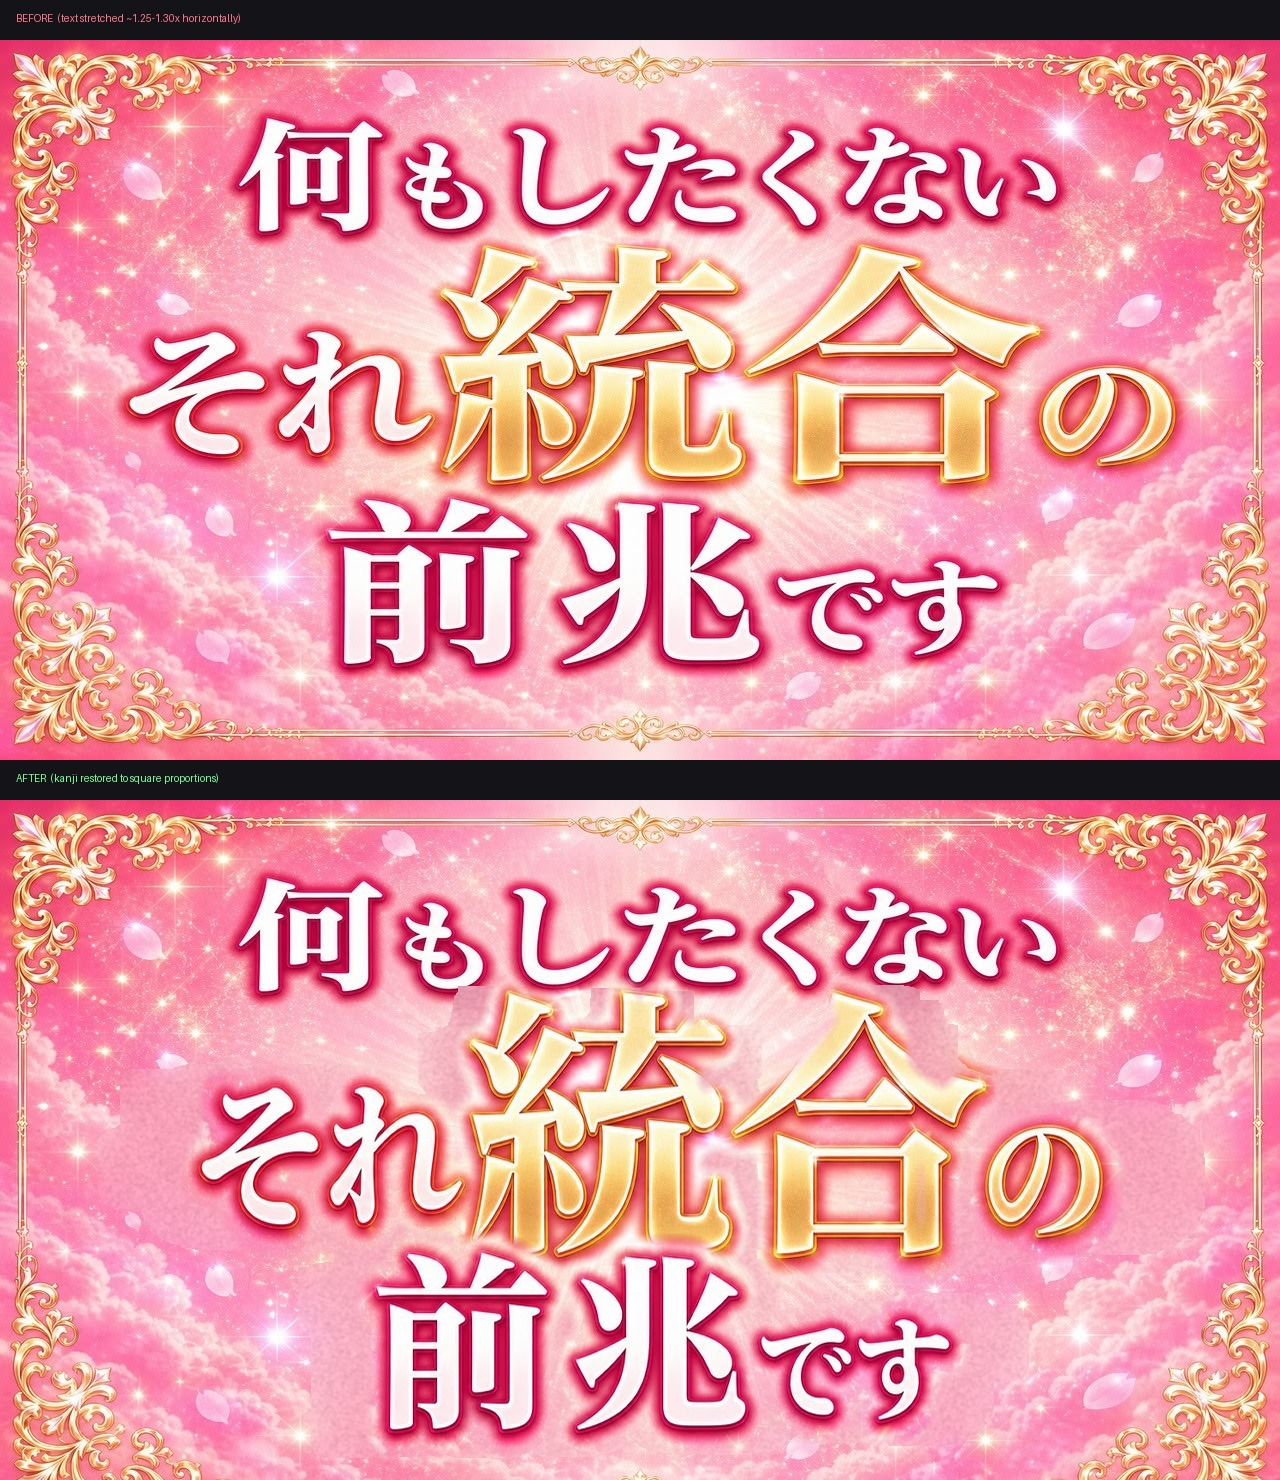
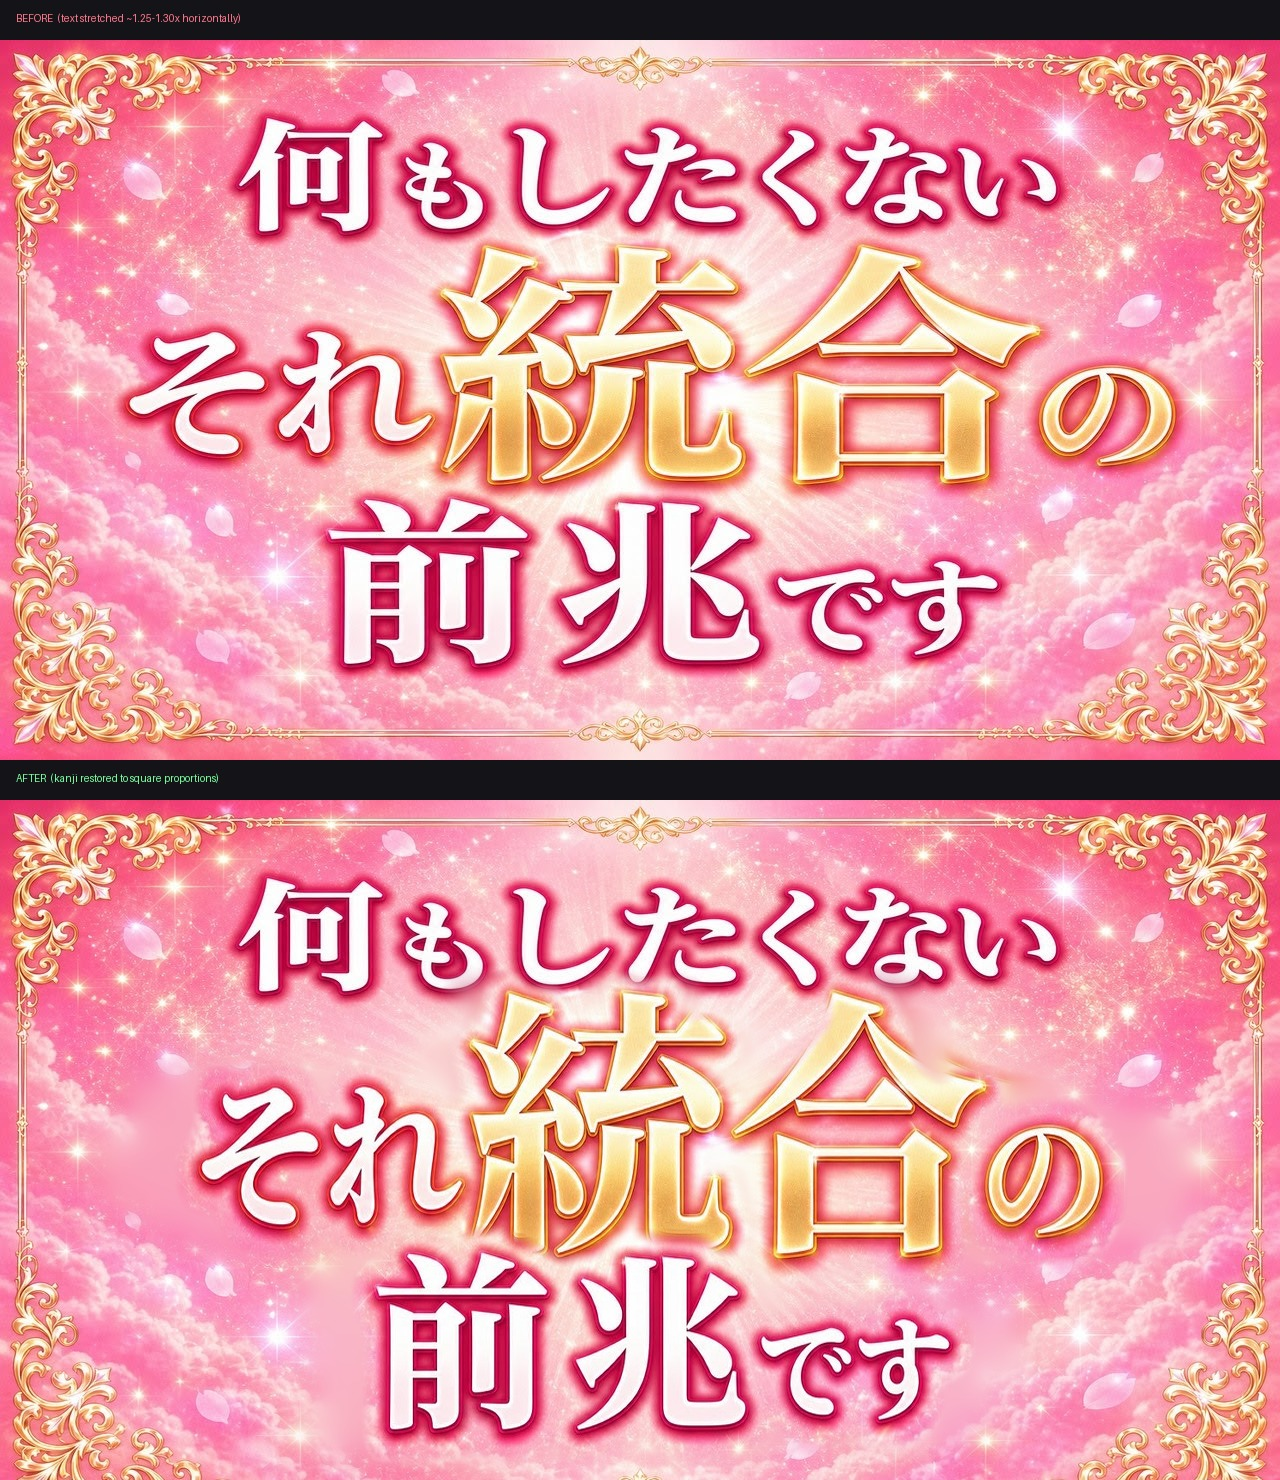
Remove visible background reconstruction patches
The first pass replaced the background under the moved glyphs using a hard
mask boundary, which left flat desaturated patches either side of 統合 where
the widened original glyphs used to sit.

Reconstruct with a tight glyph mask and blend the diffusion estimate into the
original background through a 34px distance-transform feather, so there is no
boundary to see. Sparkles, clouds and petals around the text are untouched.
統 now measures 269x269 (1.000).

Claude-Session: https://claude.ai/code/session_01TwVp5SWTv5AzjYi2fAK1mt

diff --git a/thumbnails/unstretch_text.py b/thumbnails/unstretch_text.py
@@ -27,31 +27,30 @@ for i in range(n):
             sel[name]|=(lab==i+1); break
 moved=np.zeros((H,W),bool)
 for m in sel.values(): moved|=m
-excl=ndimage.binary_dilation(moved,np.ones((37,37)))
+
+tight=ndimage.binary_dilation(moved,np.ones((9,9)))
+FEATHER=34.0
+dist=ndimage.distance_transform_edt(~tight)
+wgt=np.clip(1.0-dist/FEATHER,0,1)          # 1 on the glyphs, fading out over 34px
 
 low=a.copy()
 for ci in range(3):
-    ch=a[:,:,ci]; cur=np.where(excl,0,ch); wt=(~excl).astype(np.float64); est=ch
-    for sig in (150,100,60,38,24,16,11):
+    ch=a[:,:,ci]; cur=np.where(tight,0,ch); wt=(~tight).astype(np.float64); est=ch
+    for sig in (140,90,55,34,21,13,8):
         s_=ndimage.gaussian_filter(cur,sig); w=ndimage.gaussian_filter(wt,sig)
-        est=s_/np.maximum(w,1e-8); cur=np.where(excl,est,ch); wt=np.ones_like(wt)
+        est=s_/np.maximum(w,1e-8); cur=np.where(tight,est,ch); wt=np.ones_like(wt)
     low[:,:,ci]=est
-rng=np.random.default_rng(7)
-grain=ndimage.gaussian_filter(rng.normal(0,1,(H,W)),1.1)
-grain=grain/grain.std()*4.0
-filled=np.where(excl[...,None], low+grain[...,None], a)
+filled=a*(1-wgt[...,None])+low*wgt[...,None]
 
 res=filled.copy()
 for name,y0,y1,xa,xb,k,s in LINES:
     m=sel[name]; yy,xx=np.nonzero(m)
     lcx=(xx.min()+xx.max())/2; lcy=(yy.min()+yy.max())/2
-    sx=s/k; sy=s
-    al=ndimage.gaussian_filter(ndimage.binary_dilation(m,np.ones((17,17))).astype(np.float64),7.0)
-    al=np.clip((al-0.18)/0.55,0,1)
-    coef=(1/sx,0,lcx*(1-1/sx), 0,1/sy,lcy*(1-1/sy))
+    sxs=s/k; sys_=s
+    al=np.clip((ndimage.gaussian_filter(ndimage.binary_dilation(m,np.ones((21,21))).astype(np.float64),9.0)-0.16)/0.5,0,1)
+    coef=(1/sxs,0,lcx*(1-1/sxs), 0,1/sys_,lcy*(1-1/sys_))
     lw=np.asarray(Image.fromarray(a.clip(0,255).astype(np.uint8)).transform((W,H),Image.AFFINE,coef,resample=Image.BICUBIC)).astype(np.float64)
     la=np.asarray(Image.fromarray((al*255).astype(np.uint8)).transform((W,H),Image.AFFINE,coef,resample=Image.BICUBIC)).astype(np.float64)/255
     res=res*(1-la[...,None])+lw*la[...,None]
-    print(f'{name}: k={k} s={s} -> sx={sx:.3f} sy={sy:.3f}; x {xx.min()}..{xx.max()} y {yy.min()}..{yy.max()} -> y {lcy-(yy.max()-yy.min())*sy/2:.0f}..{lcy+(yy.max()-yy.min())*sy/2:.0f}')
 Image.fromarray(res.clip(0,255).astype(np.uint8)).save(OUT)
 print('wrote',OUT)

diff --git a/thumbnails/README.md b/thumbnails/README.md
@@ -26,12 +26,13 @@
 
 1. 文字の縁取り色（暗い臙脂）から全テキストのマスクを生成
 2. 2行目・3行目の文字を行ごとに分離
-3. 動かす文字の下の背景を拡散フィルで再構成
+3. 文字の下の背景を拡散フィルで再構成し、**距離マップによる34pxのフェザー**で
+   元の背景へなだらかに繋ぐ（境界が出ないので再構成跡が残らない）
 4. 各行を横 1/k に圧縮しつつ、露出する背景を減らすため全体を少し拡大
    （2行目 k=1.30 / s=1.12、3行目 k=1.25 / s=1.07）
 5. 元の輝きを一緒に運ぶソフトアルファで合成
 
-結果、統 の字面は 314x241 (1.30) から 271x269 (1.007) になり正方形に戻った。
+結果、統 の字面は 314x241 (1.30) から 269x269 (1.000) になり正方形に戻った。
 1行目と装飾フレームは一切触れていない。
 
 ## ファイル
@@ -41,9 +42,12 @@
 - `original_IMG_9844.jpeg` — 元ファイル
 - `unstretch_text.py` — 修正スクリプト
 
-## 注意
+## 背景の再構成跡について
 
-これは書き出し済みJPEGに対する後処理。文字を動かした跡の背景は近似再構成
-なので、拡大すると2行目の上あたりにわずかな平坦部が残る。
+初版は硬い境界のマスクで背景を差し替えていたため、2行目の左右に平坦な
+パッチが見えていた。距離マップによるフェザー合成に変更して解消済み。
+雲・光の粒・花びらはいずれも元のまま残っている。
+
+なお、これは書き出し済みJPEGに対する後処理であることに変わりはない。
 元データ（Canva等のプロジェクト）が残っているなら、そちらで文字を
-角ハンドル基準で組み直して書き出す方が確実にきれい。
+角ハンドル基準で組み直して書き出す方が根本的。
